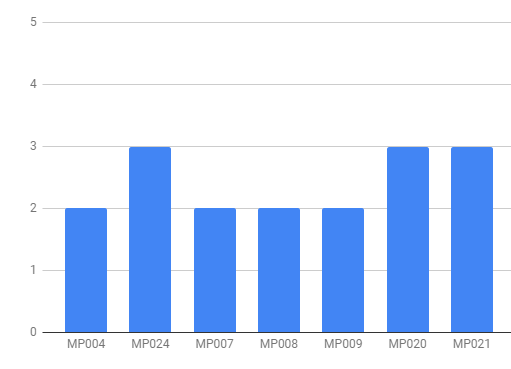
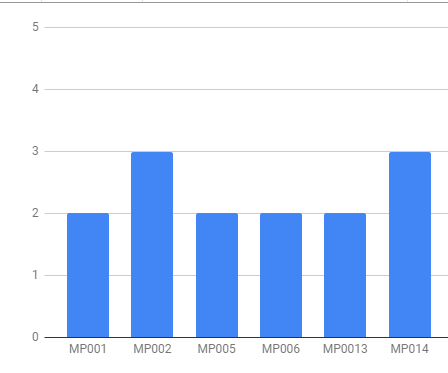
aggiunti grafici

diff --git a/Esterni/PianoDiQualifica/sezioni/resoconto.tex b/Esterni/PianoDiQualifica/sezioni/resoconto.tex
@@ -54,9 +54,9 @@ I miglioramenti principali (tutti descritti nelle \textit{norme di progetto v2.0
 	\item se dei documenti contenenti degli errori grammaticali raggiungono la repository, un bot avvisa per email chi ha commesso l'errore e invia una notifica al gruppo.
 \end{itemize}
 
-\subsubsection{MP004 Schedule variance}
+\subsubsection{MP001 Schedule variance}
 Schedule variance
-\subsubsection{MP024 Budget variance}
+\subsubsection{MP002 Budget variance}
 \begin{figure} [h]
     \centering
 	\includegraphics[scale=0.5]{./images/bvra.png}
@@ -65,24 +65,36 @@ Schedule variance
 
 \section{Progettazione della base tecnologica}
 \label{progettazione}
-\subsubsection{MP004 Schedule variance}
+\subsubsection{MP001 Schedule variance}
 Schedule variance
 
-\subsubsection{MP024 Budget variance}
+\subsubsection{MP002 Budget variance}
 \begin{figure} [h]
     \centering
 	\includegraphics[scale=0.5]{./images/bvp.png}
-	\caption{\textit{MP024 - Progettazione della base tecnologica}}\label{}
+	\caption{\textit{MP002 - Progettazione della base tecnologica}}\label{}
 \end{figure}
 
-\subsubsection{MP005: SPICE capability level}
+\subsubsection{MP003: SPICE capability level}
 Di seguito vengono riportati i livelli di maturità raggiunti dai processi eseguiti durante lo sviluppo del \glossario{poc}.
 \begin{figure} [h]
     \centering
 	\includegraphics[scale=0.7]{./images/15504.PNG}
-    \caption{\textit{MP005 - ISO/IEC 15504 }}\label{}
+    \caption{\textit{MP003 - ISO/IEC 15504 }}\label{}
 \end{figure}
-\subsubsection{MP020 Percentuale build superate}
+
+\subsection{MP005:  Occorrenza rischi non previsti}
+\textbf{rischi non previsti: 2}
+\begin{itemize}
+	\item un aggiornamento automatico di \glossario{Android Studio} completamente rimosso una libreria utilizzata dall'applicazione mobile, quindi il gruppo ha perso tempo per implementane una alternativa. Questo è successo perché la libreria in questione era deprecata. Per evitare problemi simili, l'utilizzo di librerie deprecate è stato vietato, come descritto nelle \textit{norme di progetto};
+	\item è stata inserita una chiave di accesso Amazon nel repository. Il gruppo è stato avvisato da Amazon, e ha dovuto creare nuove chiavi per tutti i membri.
+\end{itemize}
+
+\subsection{MP006: Indisponibilità dei servizi}
+\textbf{indisponibilità dei servizi: 0}\\
+Durante il periodo di progettazione della base tecnologica, il gruppo non ha riscontrato problemi riguardanti il downtime di servizi esterni.
+
+\subsubsection{MP013 Percentuale build superate}
 Viene fatta distinzione tra Android e Skill, in quanto vengono contenute in repository diversi.\\
 Le build non superate sono 24 su 134 per la Skill e 29 su 232 per Android.
 \begin{figure} [h]
@@ -96,17 +108,8 @@ Le build non superate sono 24 su 134 per la Skill e 29 su 232 per Android.
     \caption{\textit{MP020 - Skill - Progettazione della base tecnologica}}\label{}
 \end{figure}
 \clearpage
-\subsection{MP007:  Occorrenza rischi non previsti}
-\textbf{rischi non previsti: 2}
-\begin{itemize}
-	\item un aggiornamento automatico di \glossario{Android Studio} completamente rimosso una libreria utilizzata dall'applicazione mobile, quindi il gruppo ha perso tempo per implementane una alternativa. Questo è successo perché la libreria in questione era deprecata. Per evitare problemi simili, l'utilizzo di librerie deprecate è stato vietato, come descritto nelle \textit{norme di progetto};
-	\item è stata inserita una chiave di accesso Amazon nel repository. Il gruppo è stato avvisato da Amazon, e ha dovuto creare nuove chiavi per tutti i membri.
-\end{itemize}
-\subsection{MP008: Indisponibilità dei servizi}
-\textbf{indisponibilità dei servizi: 0}\\
-Durante il periodo di progettazione della base tecnologica, il gruppo non ha riscontrato problemi riguardanti il downtime di servizi esterni.
 
-\subsubsection{MP021: Media commit per settimana}
+\subsubsection{MP014: Media commit per settimana}
 Come si può vedere dai grafici, il numero di commit è stato abbastanza costante, con un aumento del carico di lavoro durante la fine di febbraio.
 \begin{figure} [h]
     \centering
@@ -117,6 +120,18 @@ Come si può vedere dai grafici, il numero di commit è stato abbastanza costant
     \centering
 	\includegraphics[scale=0.5]{./images/daycommits_js.PNG}
     \caption{\textit{MP021 - Skill - Progettazione della base tecnologica}}\label{}
+\end{figure}
+
+\subsubsection{MP015, MP016: Percentuale requisiti soddisfatti}
+\begin{figure} [h]
+    \centering
+	\includegraphics[scale=0.5]{./images/req.PNG}
+    \caption{\textit{MP017 Tipologia di requisiti}}\label{}
+\end{figure}
+\begin{figure} [h]
+    \centering
+	\includegraphics[scale=0.5]{./images/Requisiti soddisfatti.png}
+    \caption{\textit{MP017 Differenza soddisfatti e non soddisfatti}}\label{}
 \end{figure}
 
 \newpage
